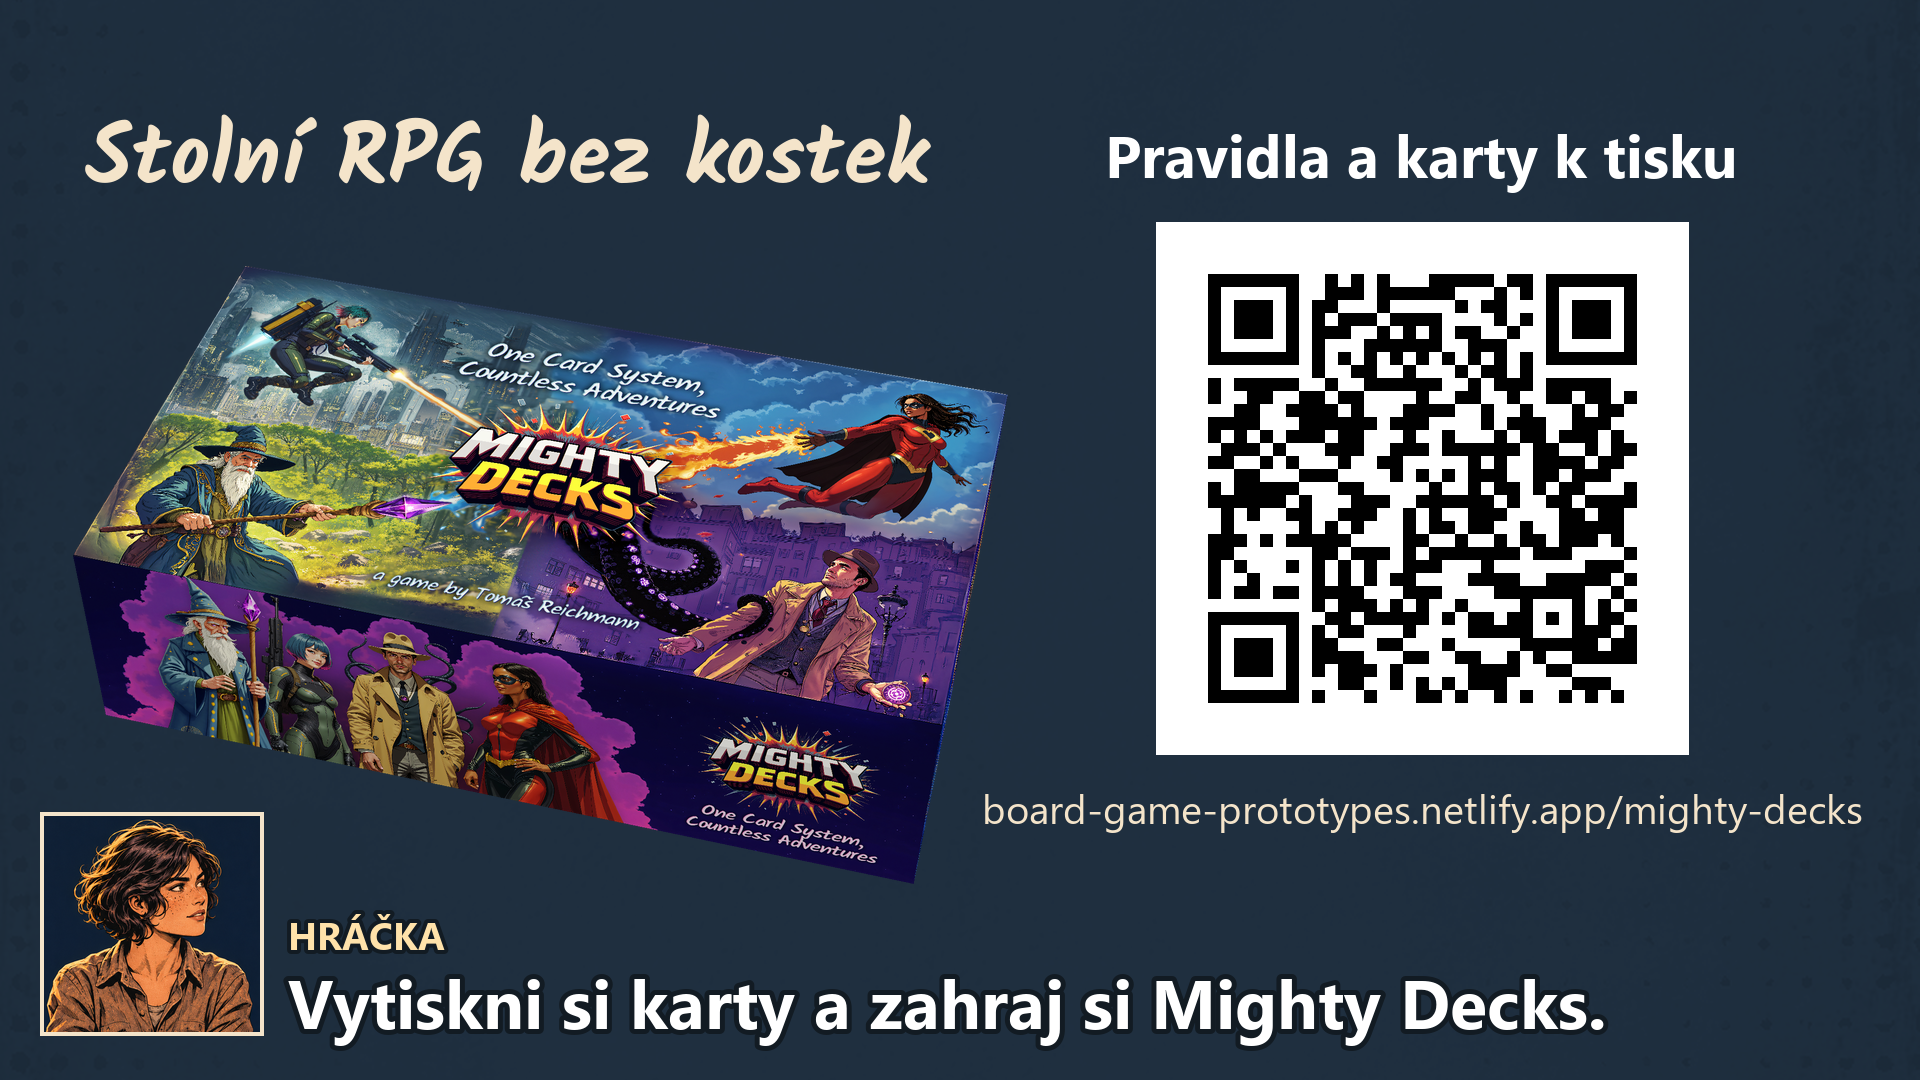
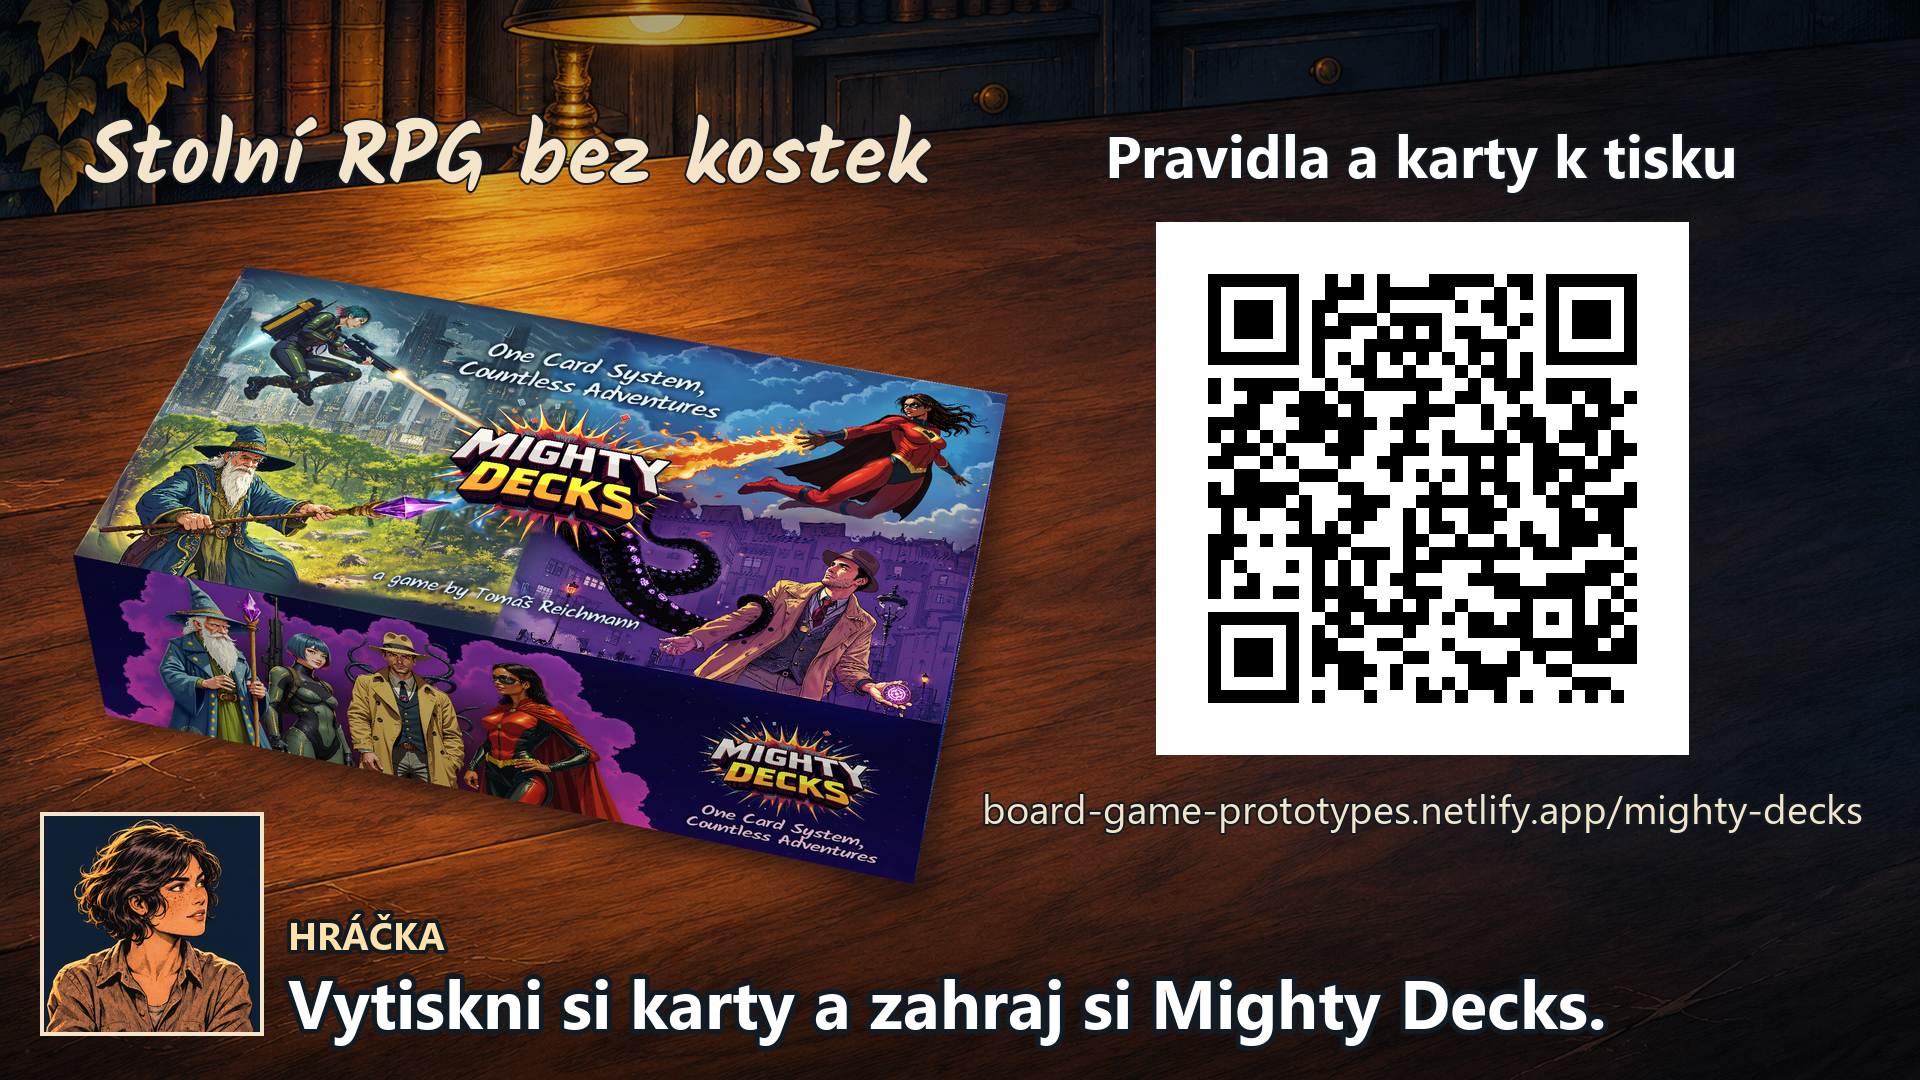
Set the closing box shot on the lamp-lit game table

diff --git a/handoff/START.md b/handoff/START.md
@@ -21,7 +21,7 @@ Fanoušek stolních RPG má zažít chvíli, kdy by sám váhal nad kartou. Hrá
 
 [Otevřít jednotlivé záběry v CZ a EN](../storyboard/screens/index.html). Každá ilustrace má samostatný čistý podklad v reference/planches. Portréty, titulky, logo a karty jsou v kompozitu přidané až v rozlišení 1920 × 1080. Obě lokalizace používají tutéž kameru a tytéž pozice prvků.
 
-Karty výsledků, Zranění, Lehká zbraň a Těžká zbroj ber pro obraz ze sady reference/karty/ruka/{cs,en}, a to i na fyzický stůl, do bedny, do přehledu a na CTA. Domobranu a Žalář ber z reference/karty/{cs,en}. Ve 3. záběru je vybraný statický snímek okamžik po zmizení Částečného úspěchu: Zranění se objeví vpravo mimo pažbu a prsty. Na konci 4. záběru patří druhé Zranění pašerákovi: díl rampy padá, pašerák visí nad šachtou a rozřízne si předloktí o utržený lem. Teprve další obraz ho ukáže za prahem s ostatními. Vpravo od loga jsou v mřížce 2 × 2 Domobrana, Žalář, Kuše a Lucerna. Na samostatné CTA vlevo ukaž krabici z dodaného tiskového rozkresu, vedle ní drž adresu i [QR kód](../reference/grafika/mighty-decks-qr.png) po celých pět sekund.
+Karty výsledků, Zranění, Lehká zbraň a Těžká zbroj ber pro obraz ze sady reference/karty/ruka/{cs,en}, a to i na fyzický stůl, do bedny, do přehledu a na CTA. Domobranu a Žalář ber z reference/karty/{cs,en}. Ve 3. záběru je vybraný statický snímek okamžik po zmizení Částečného úspěchu: Zranění se objeví vpravo mimo pažbu a prsty. Na konci 4. záběru patří druhé Zranění pašerákovi: díl rampy padá, pašerák visí nad šachtou a rozřízne si předloktí o utržený lem. Teprve další obraz ho ukáže za prahem s ostatními. Vpravo od loga jsou v mřížce 2 × 2 Domobrana, Žalář, Kuše a Lucerna. Pro pozadí závěru použij [stůl v herně](../reference/planches/cta-herna.png). Lampou osvětlené dřevo vlevo podepře krabici kontaktním stínem, klidnější pravá část patří QR kódu. Na samostatné CTA vlevo ukaž krabici z dodaného tiskového rozkresu, vedle ní drž adresu i [QR kód](../reference/grafika/mighty-decks-qr.png) po celých pět sekund.
 
 ## Kde začít
 

diff --git a/storyboard/scenar-v5.md b/storyboard/scenar-v5.md
@@ -39,7 +39,7 @@ Střih z prudkého tahu do klidu. V kolmém pohledu spočívá obvázaná ruka p
 Rohové logo přenes doprostřed světlého stolu. Vlevo otevři Outcome, Injury a karty nalezené výbavy, vpravo čtyři středověké karty v mřížce 2 × 2: Domobrana / Militia, Žalář / Dungeon, Kuše / Crossbow a Lucerna / Lantern. Pro postavu je připravený existující obraz člena domobrany medieval_militia. Nech logu vlastní okamžik. Bez VO.
 
 ### 08 · Výzva ke hře · 45–50 s · 1350–1500
-Samostatný střih na hotovou krabici Mighty Decks sestavenou z dodané tiskové grafiky víka a boků. Po celých 150 snímků čitelně drž text, adresu a QR kód vedoucí na https://board-game-prototypes.netlify.app/mighty-decks. Na replice hráčky vlevo dole její portrét a vedle něj titulek, odděleně od CTA.
+Samostatný střih zpět na dřevěný stůl hráčky a vypravěče. Světlo lampy dopadá na hotovou krabici Mighty Decks sestavenou z dodané tiskové grafiky víka a boků. Po celých 150 snímků čitelně drž text, adresu a QR kód vedoucí na https://board-game-prototypes.netlify.app/mighty-decks. Na replice hráčky vlevo dole její portrét a vedle něj titulek, odděleně od CTA.
 
 CZ · „Stolní RPG bez kostek“ / „Pravidla a karty k tisku“ · Hráčka „Vytiskni si karty a zahraj si Mighty Decks.“  
 EN · “Diceless tabletop RPG” / “Rules & printable cards” · Player “Print your deck and play Mighty Decks.”  
